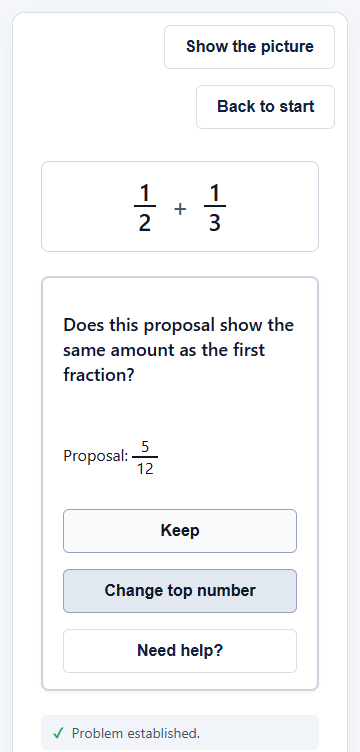
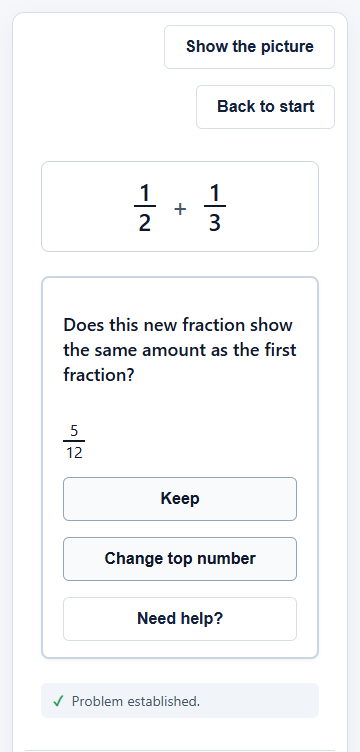
fix: use new fraction wording in inspection tasks

diff --git a/tests/plan34-rendered-task-patterns.test.js b/tests/plan34-rendered-task-patterns.test.js
@@ -117,11 +117,19 @@ describe('Plan 34 mounted production task patterns', () => {
     const host = () => root.querySelector(linear ? '.app-linear-view' : '.app-visual-view');
     const active = () => host().querySelector('.active-beat-section');
     let question = active().querySelector('.active-beat-header .active-beat-prompt');
-    expect(question.textContent).toBe('Does this proposal show the same amount as the first fraction?');
+    expect(question.textContent).toBe('Does this new fraction show the same amount as the first fraction?');
     expect(active().querySelectorAll('.active-beat-header .active-beat-prompt')).toHaveLength(1);
-    const proposal = active().querySelector('.symbolic-fraction');
-    expect(proposal).not.toBeNull();
-    expect(proposal.querySelector('.symbolic-numerator').textContent).toBe('5');
+    const newFraction = active().querySelector('.symbolic-fraction');
+    expect(newFraction).not.toBeNull();
+    expect(newFraction.querySelector('.symbolic-numerator').textContent).toBe('5');
+    expect(newFraction.getAttribute('aria-label')).toBe('New fraction 5 over 12');
+    expect(active().querySelector('.active-beat-controls').textContent).not.toContain('Proposal');
+    const taskControls = active().querySelector('.active-beat-controls');
+    const keepButton = [...taskControls.querySelectorAll('button')]
+      .find((button) => button.getAttribute('aria-label') === 'Keep new fraction 5 over 12');
+    expect(keepButton).not.toBeUndefined();
+    expect(taskControls.children.indexOf(newFraction))
+      .toBeLessThan(taskControls.children.indexOf(keepButton));
     expect(active().textContent).not.toContain('6/12');
     expect(root.querySelector('.app-replay-button').hidden).toBe(true);
 

diff --git a/src/render/linear-path.js b/src/render/linear-path.js
@@ -589,16 +589,12 @@ export function createLinearPathRenderer({
           const candidate = task.candidate;
           if (!candidate) throw new RenderContractError('MISSING_INSPECT_CANDIDATE', 'inspect transform requires the current authored proposal');
           promptText.textContent = strings.transform.inspectPrompt(side);
-          const proposal = document.createElement('p');
-          proposal.classList.add('active-beat-prompt-context');
-          proposal.textContent = `${strings.transform.inspectProposalLabel} `;
-          proposal.appendChild(createSymbolicFraction(
-            candidate.numerator, candidate.denominator, { ariaPrefix: 'Proposal' },
+          controlsContainer.appendChild(createSymbolicFraction(
+            candidate.numerator, candidate.denominator, { ariaPrefix: 'New fraction', variant: 'compact' },
           ));
-          controlsContainer.appendChild(proposal);
           const keep = createButton({
             label: 'Keep',
-            ariaLabel: `Keep proposal ${candidate.numerator}/${candidate.denominator}`,
+            ariaLabel: `Keep new fraction ${candidate.numerator} over ${candidate.denominator}`,
             className: 'control-choice-btn',
             onClick: () => dispatchAction({ type: 'keep-inspected-form' }),
           });

diff --git a/src/render/beat-container.js b/src/render/beat-container.js
@@ -497,16 +497,12 @@ export function createBeatContainer({
           const candidate = task.candidate;
           if (!candidate) throw new RenderContractError('MISSING_INSPECT_CANDIDATE', 'inspect transform requires the current authored proposal');
           promptText.textContent = strings.transform.inspectPrompt(side);
-          const proposal = document.createElement('p');
-          proposal.classList.add('active-beat-prompt-context');
-          proposal.textContent = `${strings.transform.inspectProposalLabel} `;
-          proposal.appendChild(createSymbolicFraction(
-            candidate.numerator, candidate.denominator, { ariaPrefix: 'Proposal' },
+          controlsContainer.appendChild(createSymbolicFraction(
+            candidate.numerator, candidate.denominator, { ariaPrefix: 'New fraction', variant: 'compact' },
           ));
-          controlsContainer.appendChild(proposal);
           const keep = createButton({
             label: 'Keep',
-            ariaLabel: `Keep proposal ${candidate.numerator}/${candidate.denominator}`,
+            ariaLabel: `Keep new fraction ${candidate.numerator} over ${candidate.denominator}`,
             className: 'control-choice-btn',
             onClick: () => dispatchAction({ type: 'keep-inspected-form' }),
           });

diff --git a/src/render/strings.js b/src/render/strings.js
@@ -92,8 +92,7 @@ export const STRINGS = Object.freeze({
     helpMultiplierRequired: 'Enter a whole number to keep going.',
     // Minor note: Natural phrasing for grade 2–3 and clean screen-reader voicing.
     equivalentNumeratorPrompt: equivalentPartsPrompt,
-    inspectPrompt: (side) => `Does this proposal show the same amount as the ${side === 'left' ? 'first' : 'second'} fraction?`,
-    inspectProposalLabel: 'Proposal:',
+    inspectPrompt: (side) => `Does this new fraction show the same amount as the ${side === 'left' ? 'first' : 'second'} fraction?`,
     changeTopPrompt: 'Change the top number:',
     changeTopButton: 'Change top number',
     inspectHelp: 'The top and bottom must use the same multiplier to keep the amount.',
